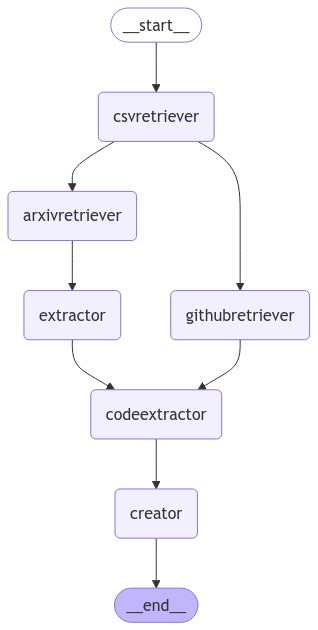
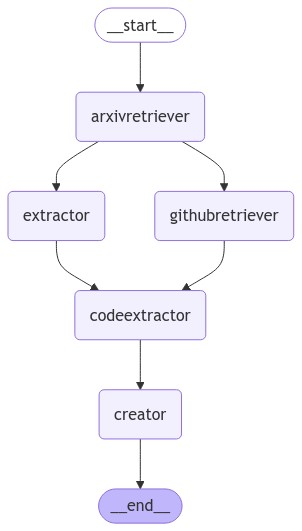
fix: fix python package

Changed region(s): [[0.0, 0.0, 0.9834, 0.9944], [0.5066, 0.3616, 0.5364, 0.452]]

diff --git a/src/researchgraph/graph/ai_integrator/ai_integrator_v1/main.py b/src/researchgraph/graph/ai_integrator/ai_integrator_v1/main.py
@@ -5,26 +5,27 @@ from IPython.display import Image
 from typing_extensions import TypedDict
 from langgraph.graph import StateGraph
 
-from researchgraph.llmnode import LLMNode
-from researchgraph.retrievenode import RetrievearXivTextNode
-from researchgraph.retrievenode import GithubNode
-from researchgraph.writingnode import Text2ScriptNode
-from researchgraph.experimentnode import (
+from src.researchgraph.llmnode import LLMNode
+from src.researchgraph.retrievenode import RetrievearXivTextNode
+from src.researchgraph.retrievenode import GithubNode
+from src.researchgraph.writingnode import Text2ScriptNode
+from src.researchgraph.experimentnode import (
     LLMTrainNode,
     LLMInferenceNode,
     LLMEvaluateNode,
 )
 
-from researchgraph.graph.ai_integrator.ai_integrator_v1.llmnode_setting.extractor import (
+from src.researchgraph.graph.ai_integrator.ai_integrator_v1.llmnode_setting.extractor import (
     extractor_setting,
 )
-from researchgraph.graph.ai_integrator.ai_integrator_v1.llmnode_setting.codeextractor import (
+from src.researchgraph.graph.ai_integrator.ai_integrator_v1.llmnode_setting.codeextractor import (
     codeextractor_setting,
 )
-from researchgraph.graph.ai_integrator.ai_integrator_v1.llmnode_setting.creator import (
+from src.researchgraph.graph.ai_integrator.ai_integrator_v1.llmnode_setting.creator import (
     creator_setting,
 )
 
+from config import ai_integratorv1_setting
 
 logger = logging.getLogger("researchgraph")
 
@@ -144,6 +145,7 @@ class AIIntegratorv1:
                 answer_data_path=self.answer_data_path,
             ),
         )
+
         # make edges
         self.graph_builder.add_edge("arxivretriever", "githubretriever")
         self.graph_builder.add_edge("arxivretriever", "extractor")
@@ -156,12 +158,14 @@ class AIIntegratorv1:
 
         # set entry and finish points
         self.graph_builder.set_entry_point("arxivretriever")
+        # self.graph_builder.set_finish_point("creator")
         self.graph_builder.set_finish_point("llmevaluater")
 
         self.graph = self.graph_builder.compile()
 
-    def __call__(self, state: State, debug: bool = True) -> dict:
-        result = self.graph.invoke(state, debug)
+    # def __call__(self, state: State, debug: bool = True) -> dict:
+    def __call__(self, state: State) -> dict:
+        result = self.graph.invoke(state)
         return result
 
     def write_result(self, response: State):
@@ -194,24 +198,36 @@ class AIIntegratorv1:
 
 if __name__ == "__main__":
     llm_name = "gpt-4o-2024-08-06"
-    save_dir = "/workspaces/researchgraph/data/exec_ai_integrator"
+    save_dir = "/content/drive/MyDrive/AutoRes/ai_integrator/exec-test"
     ft_model_name = "unsloth/Meta-Llama-3.1-8B"
     dataset_name = "openai/gsm8k"
-    num_train_data = 20
-    num_inference_data = 20
+    new_method_file_name = "new_method.py"
+    model_save_dir_name = "train_model"
+    result_save_file_name = "pred_file"
+    answer_data_path = "/content/drive/MyDrive/AutoRes/ai_integrator/gsm8k_answer.csv"
+    # num_train_data = 100
+    # num_inference_data = 100
+
     research_graph = AIIntegratorv1(
-        llm_name,
-        save_dir,
-        ft_model_name,
-        dataset_name,
-        num_train_data,
-        num_inference_data,
+        llm_name=llm_name,
+        save_dir=save_dir,
+        new_method_file_name=new_method_file_name,
+        ft_model_name=ft_model_name,
+        dataset_name=dataset_name,
+        model_save_dir_name=model_save_dir_name,
+        result_save_file_name=result_save_file_name,
+        answer_data_path=answer_data_path,
+        # num_train_data = num_train_data,
+        # num_inference_data = num_inference_data,
     )
 
     # visualize the graph
-    image_dir = "/workspaces/researchgraph/images/"
-    research_graph.make_image(image_dir)
+    # image_dir = "/workspaces/researchgraph/images/"
+    # research_graph.make_image(image_dir)
     # research_graph.make_mermaid()
 
-    # result = research_graph(memory)
+    result = research_graph(
+        state=ai_integratorv1_setting,
+        # debug=True
+    )
     # research_graph.write_result(result)
